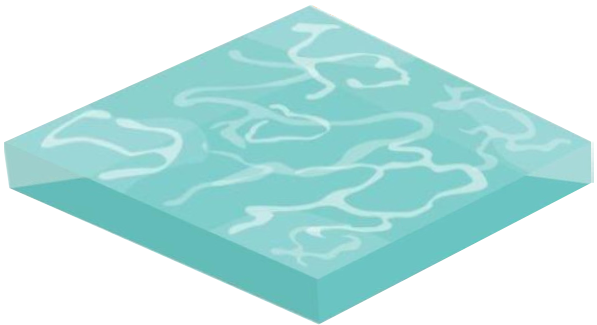
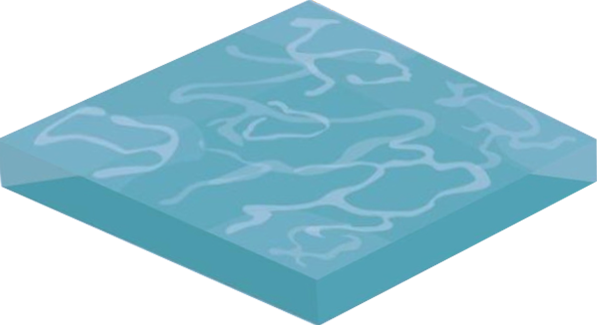
add water variants and add menu collapse button

diff --git a/src/lib/components/Menu.svelte b/src/lib/components/Menu.svelte
@@ -70,8 +70,8 @@
 				settingsVisible = false;
 				const assets = document.querySelector('.scroll-buttons');
 				const misc = document.querySelector('.misc-container');
-				if(assets.classList.contains('invisible')) assets.classList.toggle('invisible');
-				if(!misc.classList.contains('invisible')) misc.classList.toggle('invisible');
+				if (assets.classList.contains('invisible')) assets.classList.toggle('invisible');
+				if (!misc.classList.contains('invisible')) misc.classList.toggle('invisible');
 			});
 		});
 
@@ -91,107 +91,142 @@
 	});
 </script>
 
-<div
-	class="bottom-container"
-	on:click|stopPropagation
-	on:keydown={keydownHandler}
-	role="menu"
-	tabindex=""
->
-	<div class="bottom-inner-container">
-		<div class="category-container">
-			{#each asset_data as category}
-				<button class={focused_category === category.type ? 'focused' : ''}>
-					<span
-						style="display:flex; align-items:center; justify-content:flex-start;flex:1; width:auto;gap:0.2rem"
-					>
-						<span style="font-size:32px;width:auto;">&#x2022;</span>
-						{category.type}
-					</span>
-				</button>
-			{/each}
-			<button
-				class={focused_category === 'Misc' ? 'focused' : ''}
-				on:click={() => {
-					focused_category = 'Misc';
-					settingsVisible = true;
-					const assets = document.querySelector('.scroll-buttons');
-					const misc = document.querySelector('.misc-container');
-					console.log(assets, misc);
-					assets.classList.toggle('invisible');
-					misc.classList.toggle('invisible');
-				}}
-			>
-				<span
-					style="display:flex; align-items:center; justify-content:flex-start;flex:1; width:auto;gap:0.2rem;border-left:none;"
-				>
-					<span style="font-size:32px;width:auto;">&#x2022;</span>Misc</span
-				>
-			</button>
-		</div>
-		<!-- {#if !settingsVisible} -->
-		<div class="scroll-buttons">
-			<button id="scroll-left" class="scroll-button">‹</button>
-			<div class="asset-container">
+<div class="bottom-outer-container">
+	<button class="collapse-button" on:click={(e)=>{
+		e.stopPropagation();
+		const container  = document.querySelector('.bottom-container');
+		container.classList.toggle('invisible')
+		if(container.classList.contains('invisible')){
+			e.target.innerHTML='/\\'
+		}
+		else{
+			e.target.innerHTML='V'
+		}
+	}}>V</button>
+	<div
+		class="bottom-container"
+		on:click|stopPropagation
+		on:keydown={keydownHandler}
+		role="menu"
+		tabindex=""
+	>
+		<div class="bottom-inner-container">
+			<div class="category-container" style="display:flex;">
 				{#each asset_data as category}
-					{#each category.assets as asset}
-						<button
-							on:click={() => {
-								selected_asset = Object.create(asset);
-							}}
-							style="aspect-ratio:1/1; background-color:{asset.name == selected_asset.name
-								? `${category.accent}`
-								: ''}"
+					<button class={focused_category === category.type ? 'focused' : ''}>
+						<span
+							style="display:flex; align-items:center; justify-content:flex-start;flex:1; width:auto;gap:0.2rem"
 						>
-							<img src={asset.src} alt={asset.name} />
-						</button>
-					{/each}
+							<span style="font-size:32px;width:auto;">&#x2022;</span>
+							{category.type}
+						</span>
+					</button>
 				{/each}
+				<button
+					class={focused_category === 'Misc' ? 'focused' : ''}
+					on:click={() => {
+						focused_category = 'Misc';
+						settingsVisible = true;
+						const assets = document.querySelector('.scroll-buttons');
+						const misc = document.querySelector('.misc-container');
+						console.log(assets, misc);
+						assets.classList.toggle('invisible');
+						misc.classList.toggle('invisible');
+					}}
+				>
+					<span
+						style="display:flex; align-items:center; justify-content:flex-start;flex:1; width:auto;gap:0.2rem;border-left:none;"
+					>
+						<span style="font-size:32px;width:auto;">&#x2022;</span>Misc</span
+					>
+				</button>
 			</div>
-			<button id="scroll-right" class="scroll-button">›</button>
-		</div>
-		<!-- {:else} -->
-		<div class="misc-container invisible">
-			<div class="misc-section">
-				<span>
-					<input type="text" bind:value={GRID_WIDTH} />
-					<input
-						type="range"
-						min="10"
-						max="100"
-						bind:value={GRID_WIDTH}
-						id="GRID_WIDTH"
-						name="GRID_WIDTH"
-					/>
-					<label for="GRID_WIDTH">Generated Terrain Width</label>
-				</span>
-				<span>
-					<input type="text" bind:value={GRID_HEIGHT} />
-					<input
-						type="range"
-						min="10"
-						max="100"
-						bind:value={GRID_HEIGHT}
-						id="GRID_HEIGHT"
-						name="GRID_HEIGHT"
-					/>
-					<label for="GRID_HEIGHT">Generated Terrain Height</label>
-				</span>
-				<span>
-					<input type="checkbox" bind:checked={GRID_VISIBLE} id="GRID_VISIBLE" />
-					<label for="GRID_VISIBLE">Grid Visible?</label>
-				</span>
+			<!-- {#if !settingsVisible} -->
+			<div class="scroll-buttons">
+				<button id="scroll-left" class="scroll-button">‹</button>
+				<div class="asset-container">
+					{#each asset_data as category}
+						{#each category.assets as asset}
+							<button
+								on:click={() => {
+									selected_asset = Object.create(asset);
+								}}
+								style="aspect-ratio:1/1; background-color:{asset.name == selected_asset.name
+									? `${category.accent}`
+									: ''}"
+							>
+								<img src={asset.src} alt={asset.name} />
+							</button>
+						{/each}
+					{/each}
+				</div>
+				<button id="scroll-right" class="scroll-button">›</button>
 			</div>
+			<!-- {:else} -->
+			<div class="misc-container invisible">
+				<div class="misc-section" style="color:#fff;">
+					<span>
+						<input type="text" bind:value={GRID_WIDTH} />
+						<input
+							type="range"
+							min="10"
+							max="100"
+							bind:value={GRID_WIDTH}
+							id="GRID_WIDTH"
+							name="GRID_WIDTH"
+						/>
+						<label for="GRID_WIDTH">Generated Terrain Width</label>
+					</span>
+					<span>
+						<input type="text" bind:value={GRID_HEIGHT} />
+						<input
+							type="range"
+							min="10"
+							max="100"
+							bind:value={GRID_HEIGHT}
+							id="GRID_HEIGHT"
+							name="GRID_HEIGHT"
+						/>
+						<label for="GRID_HEIGHT">Generated Terrain Height</label>
+					</span>
+					<span>
+						<input type="checkbox" bind:checked={GRID_VISIBLE} id="GRID_VISIBLE" />
+						<label for="GRID_VISIBLE">Grid Visible?</label>
+					</span>
+				</div>
+			</div>
+			<!-- {/if} -->
 		</div>
-		<!-- {/if} -->
 	</div>
 </div>
 
 <style>
+	.bottom-outer-container {
+		width: 100vw;
+		position: absolute;
+		transform-origin: center bottom;
+		left: 0;
+		right: 0;
+		bottom: 0;
+	}
+	.collapse-button {
+		position: relative;
+		z-index: 100;
+		transform: translateX(-100%);
+		left: 100%;
+		padding: 16px;
+		width: auto;
+		border: none;
+		background-color: #1e1e2f;
+		cursor: pointer;
+	}
+	.collapse-button:hover {
+		background-color: #2a2a40;
+	}
 	.bottom-container {
 		width: 100%;
 		z-index: 100;
-		position: absolute;
+		position: relative;
 		transform-origin: center bottom;
 		left: 0;
 		right: 0;
@@ -345,6 +380,7 @@
 		width: 20%;
 		padding: 10px 5px 10px 5px;
 		text-align: center;
+		color: #fff;
 		background-color: rgba(42, 42, 64, 0);
 		border: 1px solid grey;
 	}

diff --git a/src/app.html b/src/app.html
@@ -15,7 +15,6 @@
 			margin: 0;
 			width: 100%;
 			box-sizing: border-box;
-			color:#fff;
 			font-family: 'Lucida Sans', 'Lucida Sans Regular', 'Lucida Grande', 'Lucida Sans Unicode', Geneva, Verdana, sans-serif;
 		}
 		body{

diff --git a/src/lib/Assets/assets_imports.js b/src/lib/Assets/assets_imports.js
@@ -57,7 +57,7 @@ const data = [
     },
     {
         type: "Water",
-        accent: "rgba(120,215,255,1.00)",
+        accent: "rgba(120,215,255,0.8)",
         assets: [
             {
                 name: 'water1',
